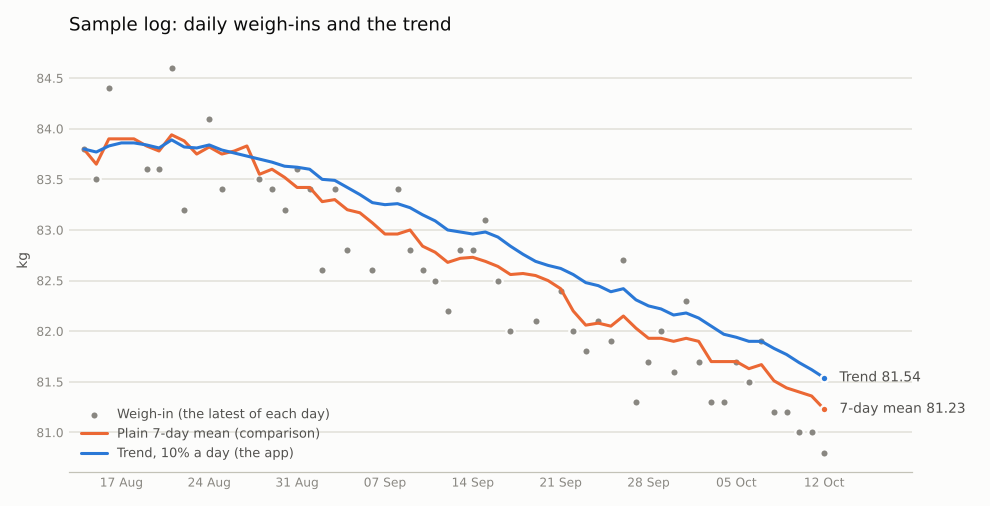
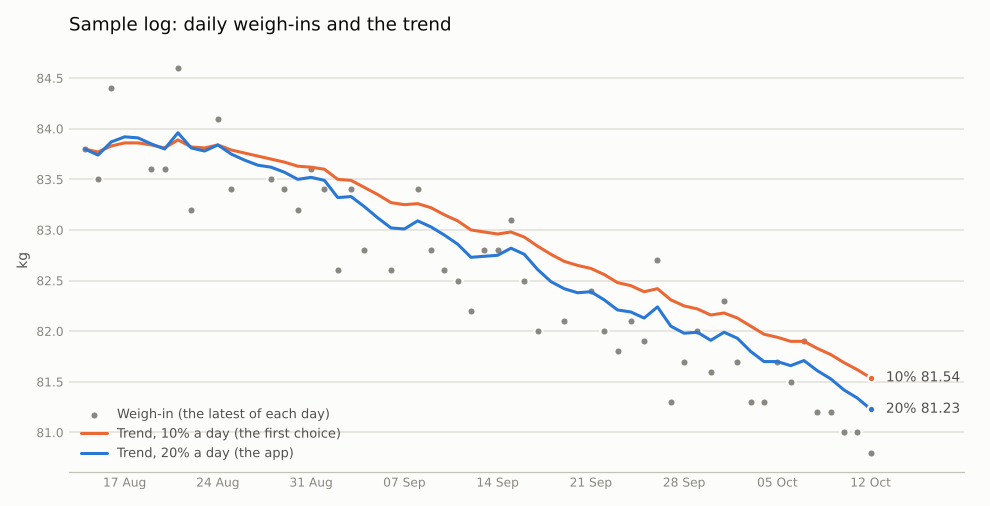
X Weigh-in W1: Gate W1 passed, the trend at 20% a day
Jon asked for a more responsive trend, "just enough to smooth out
anomalies", and confirmed the date,time,kg file layout.

The share was measured on 20 sample logs against their built-in weight:
mean distance 0.47 / 0.33 / 0.26 / 0.22 / 0.20 kg at 10-30%, while the
largest one-day move grows 0.13 / 0.17 / 0.23 / 0.29 / 0.35 kg. 20% halves
the 10% trend's lag (4 days instead of 9) and a one-day anomaly still moves
it by only a fifth of its size.

- Trend: kTrendPercent = 20; Trend(percent) takes another share for
  comparisons (clamped 1-100). Tests updated to 20%, with 10% and 100%
  kept as references: 66 pass.
- trend_csv takes an optional percent; trend_chart.py draws a comparison
  trend. The sample chart now shows 20% against 10%.
- NOTES: the method, the measurement table, Gate W1 passed.

Verified: host tests with no warnings; watch target compile check with no
warnings (Ubuntu toolchain with stubs, not installable); simulator runs.

Claude-Session: https://claude.ai/code/session_01GHUw2af96NXnjEQdZJGUor

diff --git a/x-weighin/docs/experiments/trend_chart.py b/x-weighin/docs/experiments/trend_chart.py
@@ -1,12 +1,13 @@
 #!/usr/bin/env python3
 """Chart a weigh-in log's daily weights against the trend, for the W1 gate.
 
-    trend_chart.py <trend.csv> <out.png>
+    trend_chart.py <trend.csv> <out.png> [<compare.csv> <compare label>]
 
 <trend.csv> is the output of Tests/Host's trend_csv tool (date,weight,trend,
-mean7). The chart shows the counted weigh-ins as grey dots, the app's trend
-(10% a day) as a blue line, and a plain 7-day mean as an orange line for
-comparison. The CSV is the chart's table view.
+mean7) at the app's share (20% a day). The chart shows the counted weigh-ins
+as grey dots and the app's trend as a blue line. With <compare.csv> (trend_csv
+at another share, on the same log) its trend is drawn as an orange line;
+without it, the plain 7-day mean is. The CSVs are the chart's table view.
 
 Light surface and chart chrome from the dataviz skill's reference palette;
 the two series colours are its categorical slots 1 and 2, checked with its
@@ -30,7 +31,7 @@ MUTED = "#898781"
 GRID = "#e1e0d9"
 AXIS = "#c3c2b7"
 TREND = "#2a78d6"   # categorical slot 1
-MEAN7 = "#eb6834"   # categorical slot 2
+OTHER = "#eb6834"   # categorical slot 2
 
 
 def read(path):
@@ -46,9 +47,17 @@ def read(path):
 
 
 def main():
-    if len(sys.argv) != 3:
+    if len(sys.argv) not in (3, 5):
         sys.exit(__doc__)
     days, weights, trend, mean7 = read(sys.argv[1])
+    if len(sys.argv) == 5:
+        cdays, _, other, _ = read(sys.argv[3])
+        other_label, other_short = sys.argv[4], sys.argv[4]
+        od, ov = cdays, other
+    else:
+        od = [d for d, m in zip(days, mean7) if m is not None]
+        ov = [m for m in mean7 if m is not None]
+        other_label, other_short = "Plain 7-day mean (comparison)", "7-day mean"
 
     plt.rcParams["font.family"] = "sans-serif"
     fig, ax = plt.subplots(figsize=(9, 4.6), dpi=110)
@@ -59,16 +68,14 @@ def main():
     wv = [w for w in weights if w is not None]
     ax.scatter(wd, wv, s=30, color=MUTED, edgecolors=SURFACE, linewidths=1.5,
                zorder=3, label="Weigh-in (the latest of each day)")
-    md = [d for d, m in zip(days, mean7) if m is not None]
-    mv = [m for m in mean7 if m is not None]
-    ax.plot(md, mv, color=MEAN7, linewidth=2, solid_capstyle="round",
-            solid_joinstyle="round", zorder=4, label="Plain 7-day mean (comparison)")
+    ax.plot(od, ov, color=OTHER, linewidth=2, solid_capstyle="round",
+            solid_joinstyle="round", zorder=4, label=other_label)
     ax.plot(days, trend, color=TREND, linewidth=2, solid_capstyle="round",
-            solid_joinstyle="round", zorder=5, label="Trend, 10% a day (the app)")
+            solid_joinstyle="round", zorder=5, label="Trend, 20% a day (the app)")
 
     # Direct labels at the line ends, in ink, with a short key line beside them.
-    for series, value, colour, text in ((trend, trend[-1], TREND, "Trend"),
-                                        (mean7, mv[-1], MEAN7, "7-day mean")):
+    for value, colour, text in ((trend[-1], TREND, "20%"),
+                                (ov[-1], OTHER, other_short.split(",")[-1].split(" a day")[0].strip())):
         ax.annotate(f"{text} {value:.2f}", xy=(days[-1], value),
                     xytext=(10, 0), textcoords="offset points", va="center",
                     fontsize=9, color=INK_2)

diff --git a/x-weighin/Tests/Host/TrendTest.cpp b/x-weighin/Tests/Host/TrendTest.cpp
@@ -63,19 +63,44 @@ TEST(Trend, SteadyWeightStaysPut)
     EXPECT_EQ(s.weekChange, 0);
 }
 
-TEST(Trend, MovesTenPercentADay)
+TEST(Trend, MovesTwentyPercentADay)
 {
-    // A 1 kg step: the trend closes 10% of the gap each day, so 0.10 kg after
-    // one day and 1 - 0.9^7 = 52.2% after seven.
+    // The app's share (Jon, Gate W1). A 1 kg step: the trend closes 20% of the
+    // gap each day, so 0.20 kg after one day and 1 - 0.8^7 = 79% after seven.
+    ASSERT_EQ(kTrendPercent, 20);
     Trend t;
     t.onEntry(entry(kDay0, 8200));
     for (int i = 1; i <= 7; ++i) {
         t.onEntry(entry(kDay0 + i, 8300));
     }
-    EXPECT_EQ(trendAt(t, kDay0 + 1), 8210);
-    EXPECT_EQ(trendAt(t, kDay0 + 7), 8252);
-    EXPECT_EQ(t.summary().trend, 8252);
+    EXPECT_EQ(trendAt(t, kDay0 + 1), 8220);
+    EXPECT_EQ(trendAt(t, kDay0 + 2), 8236);
+    EXPECT_EQ(trendAt(t, kDay0 + 7), 8279);
+    EXPECT_EQ(t.summary().trend, 8279);
     EXPECT_EQ(t.summary().latest, 8300);
+}
+
+TEST(Trend, OtherSharesForComparison)
+{
+    // The Hacker's Diet's 10%: 0.10 kg after one day, 1 - 0.9^7 = 52.2% after seven.
+    Trend ten(10);
+    ten.onEntry(entry(kDay0, 8200));
+    for (int i = 1; i <= 7; ++i) {
+        ten.onEntry(entry(kDay0 + i, 8300));
+    }
+    EXPECT_EQ(trendAt(ten, kDay0 + 1), 8210);
+    EXPECT_EQ(trendAt(ten, kDay0 + 7), 8252);
+
+    // 100% is no smoothing at all: the trend is each day's weight.
+    Trend raw(100);
+    raw.onEntry(entry(kDay0, 8200));
+    raw.onEntry(entry(kDay0 + 1, 8300));
+    EXPECT_EQ(raw.summary().trend, 8300);
+
+    // Out of range shares are clamped.
+    EXPECT_EQ(Trend(0).percent(), 1);
+    EXPECT_EQ(Trend(250).percent(), 100);
+    EXPECT_EQ(Trend().percent(), kTrendPercent);
 }
 
 TEST(Trend, TheLatestWeighInOfADayCounts)
@@ -83,13 +108,13 @@ TEST(Trend, TheLatestWeighInOfADayCounts)
     Trend t;
     t.onEntry(entry(kDay0, 8200));
     t.onEntry(entry(kDay0 + 1, 8300, 7 * 60));
-    EXPECT_EQ(t.summary().trend, 8210);
+    EXPECT_EQ(t.summary().trend, 8220);
     t.onEntry(entry(kDay0 + 1, 8250, 7 * 60 + 2));   // weighed again, a typo fixed
     const Summary s = t.summary();
     EXPECT_EQ(s.days, 2u);
     EXPECT_EQ(s.latest, 8250);
-    EXPECT_EQ(s.trend, 8205);
-    EXPECT_EQ(trendAt(t, kDay0 + 1), 8205);
+    EXPECT_EQ(s.trend, 8210);
+    EXPECT_EQ(trendAt(t, kDay0 + 1), 8210);
 }
 
 TEST(Trend, TheLatestCountsOnTheFirstDayToo)
@@ -103,7 +128,7 @@ TEST(Trend, TheLatestCountsOnTheFirstDayToo)
     EXPECT_EQ(s.trend, 8000);
     // And the next day steps from 80.00, not 82.00.
     t.onEntry(entry(kDay0 + 1, 8100));
-    EXPECT_EQ(t.summary().trend, 8010);
+    EXPECT_EQ(t.summary().trend, 8020);
 }
 
 TEST(Trend, ReplacingAfterAGapRedoesTheFilledDays)

diff --git a/x-weighin/Software/Libs/Core/Header/Trend.hpp b/x-weighin/Software/Libs/Core/Header/Trend.hpp
@@ -6,9 +6,11 @@
  * The method (Jon, 12 October 2026):
  *   - **One weight per local day: the latest that day.** A later weigh-in the
  *     same day replaces an earlier one, so a slip is fixed by weighing again.
- *   - **Each day the trend moves 10% of the way to that day's weight**,
- *     t += (w - t) / 10: the Hacker's Diet method (J. Walker, "The Hacker's
- *     Diet"). The first weigh-in starts the trend at that weight.
+ *   - **Each day the trend moves a fixed share of the way to that day's
+ *     weight**, t += (w - t) x p: an exponential moving average, the method of
+ *     J. Walker's "The Hacker's Diet" (which uses p = 10%). The app uses
+ *     kTrendPercent; the share can be set per Trend for comparisons. The first
+ *     weigh-in starts the trend at that weight.
  *   - **Missed days** take a straight line between the weigh-ins either side,
  *     and the trend steps through each of them. A week off then neither
  *     freezes the trend nor makes it jump, and weekly weighing still works.
@@ -37,8 +39,10 @@ namespace XWeighIn
 
 /// Trend units per 0.01 kg: the trend is held to 1/10 000 kg.
 constexpr int32_t kTrendScale  = 100;
-/// The share of the gap closed each day: 1 / kTrendDivisor, i.e. 10%.
-constexpr int32_t kTrendDivisor = 10;
+/// The share of the gap closed each day, in percent. Jon, Gate W1: more
+/// responsive than the Hacker's Diet's 10%, "just enough to smooth out
+/// anomalies" (NOTES, W1).
+constexpr int32_t kTrendPercent = 20;
 /// Days kept for the graph and the glance.
 constexpr int32_t kHistoryDays = 90;
 /// The span the weekly change is taken over.
@@ -65,7 +69,14 @@ struct Summary {
 class Trend : public EntryVisitor
 {
 public:
-    Trend() { reset(); }
+    /// @param percent  The share of the gap closed each day, 1-100 (clamped).
+    explicit Trend(int32_t percent = kTrendPercent)
+        : mPercent(percent < 1 ? 1 : (percent > 100 ? 100 : percent))
+    {
+        reset();
+    }
+
+    int32_t percent() const { return mPercent; }
 
     void reset();
 
@@ -93,6 +104,7 @@ private:
         uint32_t days;
     };
 
+    int32_t  mPercent;
     bool     mStarted;
     int32_t  mFirstDay;
     int32_t  mLastDay;

diff --git a/x-weighin/Tests/Host/tools/trend_csv.cpp b/x-weighin/Tests/Host/tools/trend_csv.cpp
@@ -1,12 +1,15 @@
 /**
  * trend_csv: read a weigh-in log and print it day by day with the trend.
  *
- *   trend_csv <weighins.csv>
+ *   trend_csv <weighins.csv> [percent]
  *
  * stdout, a CSV: date,weight,trend,mean7 for each day the trend covers (the
  * last 90 days at most). weight is that day's counted weigh-in (the latest),
  * empty on a missed day. mean7 is a plain mean of the weigh-ins in the 7 days
  * up to that day, for comparison only: the app does not use it.
+ *
+ * percent is the trend's daily share (default: the app's, kTrendPercent), to
+ * compare settings on the same log.
  *
  * stderr: the summary the app would show.
  *
@@ -20,6 +23,7 @@
 #include "WeighText.hpp"
 
 #include <cstdio>
+#include <cstdlib>
 #include <fstream>
 #include <map>
 #include <string>
@@ -29,7 +33,7 @@ using namespace XWeighIn;
 int main(int argc, char** argv)
 {
     if (argc < 2) {
-        std::fprintf(stderr, "usage: %s <weighins.csv>\n", argv[0]);
+        std::fprintf(stderr, "usage: %s <weighins.csv> [percent]\n", argv[0]);
         return 2;
     }
     std::ifstream in(argv[1]);
@@ -38,7 +42,7 @@ int main(int argc, char** argv)
         return 1;
     }
 
-    Trend                      trend;
+    Trend                      trend(argc > 2 ? std::atoi(argv[2]) : kTrendPercent);
     std::map<int32_t, int32_t> latestOfDay;   // for mean7
     uint32_t                   rejected = 0;
     std::string                line;
@@ -91,7 +95,8 @@ int main(int argc, char** argv)
     char a[16], b[16];
     formatKg(s.latest, 2, a, sizeof(a));
     formatKg(s.trend, 2, b, sizeof(b));
-    std::fprintf(stderr, "%u days weighed, latest %s kg, trend %s kg", s.days, a, b);
+    std::fprintf(stderr, "%u days weighed, latest %s kg, trend (%d%%) %s kg",
+                 s.days, a, static_cast<int>(trend.percent()), b);
     if (s.hasWeekChange) {
         formatChange(s.weekChange, 2, a, sizeof(a));
         std::fprintf(stderr, ", %s kg this week", a);

diff --git a/x-weighin/Software/Libs/Core/Sources/Trend.cpp b/x-weighin/Software/Libs/Core/Sources/Trend.cpp
@@ -68,7 +68,7 @@ void Trend::commit(int32_t day, int64_t unitsW)
         // between the two weigh-ins before it.
         const int64_t w = (k == gap) ? unitsW
                                      : mLastWeightUnits + divRound((unitsW - mLastWeightUnits) * k, gap);
-        mTrendUnits += divRound(w - mTrendUnits, kTrendDivisor);
+        mTrendUnits += divRound((w - mTrendUnits) * mPercent, 100);
         const int32_t d = mLastDay + static_cast<int32_t>(k);
         record(d, (k == gap) ? static_cast<int32_t>(unitsW / kTrendScale) : 0, mTrendUnits);
     }

diff --git a/x-weighin/docs/NOTES.md b/x-weighin/docs/NOTES.md
@@ -108,7 +108,7 @@ UNA profile. Jon was told and agreed (12 October 2026).
 | Phase | Work | Gate |
 |---|---|---|
 | **W0** | Identity, layout, CI build. The first look: the profile's height and weight, the daily resting HR, age and sex, on one screen | W0: do the profile's values reach the app on the watch? |
-| W1 | The core, pure and host-tested: a weigh-in log (an append-only file in the app's folder, with a copy in SharedData), the smoothed trend, the change per week, BMI, BMR | Host tests; Jon confirms the smoothing |
+| W1 | The core, pure and host-tested: a weigh-in log (an append-only file in the app's folder, with a copy in SharedData), the smoothed trend (20% a day), the change per week, BMI, BMR | Passed: 20% a day, the file layout |
 | W2 | The screens: weigh-in entry (starts at the last weight, 0.1 kg steps), the saved summary, trend graph, history | A week of weigh-ins on the watch |
 | W3 | The glance, a second `.uapp`: weight, weekly change, 14 days as bars | The glance on the watch |
 | W4 | The sweat-rate test: weigh before and after a session, enter what you drank; L/h and % of body mass lost | A training session |
@@ -291,7 +291,8 @@ existing values (`Docs/app-config-fields.md` §7.3).
 ## W1: the log, the trend and the body numbers (12 October 2026)
 
 Jon's decisions for W1:
-- the trend moves 10% a day ("I agree");
+- the trend: first 10% a day ("I agree"), then, at Gate W1, **20% a day**
+  (see "Gate W1" below);
 - **if he weighs in more than once a day, the latest counts**. Every weigh-in
   stays in the log.
 
@@ -339,9 +340,11 @@ date,time,kg
   day undoes that day and redoes it. So a mistyped entry is fixed by weighing
   again: the sample log below has a 92.80 corrected to 82.80 a minute later,
   and the trend never sees the 92.80.
-- **Each day the trend moves 10% of the way to that day's weight,**
-  `t += (w - t) / 10` (J. Walker, *The Hacker's Diet*). The first weigh-in
-  starts it.
+- **Each day the trend moves 20% of the way to that day's weight,**
+  `t += (w - t) × 20%`: an exponential moving average, the method of J. Walker's
+  *The Hacker's Diet*, which uses 10%. The first weigh-in starts it.
+  - The share is `kTrendPercent` in `Trend.hpp`. `Trend(percent)` and
+    `trend_csv <log> <percent>` take another, to compare.
   - It is held in fixed point at 1/10 000 kg, so the watch and the host agree
     exactly.
 - **Missed days take a straight line** between the weigh-ins either side, and
@@ -359,21 +362,21 @@ date,time,kg
 **What the smoothing does, on a sample log**
 (`docs/screens/w1-trend-sample.png`):
 
-![Sample log: weigh-ins, the 10% trend and a 7-day mean](screens/w1-trend-sample.png)
+![Sample log: weigh-ins, the 20% trend and the 10% one](screens/w1-trend-sample.png)
 
 - **The sample** (`make_log`, seed 1) is not real data: 60 days, a built-in loss
   of 0.35 kg a week from 84 kg, day-to-day swings, about one missed day in eight,
   and the one typo.
-- **Its table view** is `docs/experiments/w1-trend-sample.csv`.
-- **The trend is the smoothest line:** it ignores the single-day jumps (84.4,
-  84.6, 82.2) that move the 7-day mean.
-- **The price is lag.** On a steady change, a 10% trend runs about 9 days behind
-  ((1 − 0.1) / 0.1).
-  - Here the built-in weight on the last day is 81.05 kg; the trend says 81.54,
-    the 7-day mean 81.23, and that day's reading was 80.80.
-  - So the trend is "where you are heading", not today's weight.
-  - The weekly change still reads the rate well: -0.40 kg against the built-in
-    -0.35.
+- **Its table views** are `docs/experiments/w1-trend-sample.csv` (20%) and
+  `w1-trend-sample-10.csv` (10%).
+- **Both trends ride over the single-day jumps** (84.4, 84.6, 82.2).
+- **The price of smoothing is lag.** On a steady change the trend runs about
+  (1 − p) / p days behind: 9 days at 10%, 4 days at 20%.
+  - Here the built-in weight on the last day is 81.05 kg. The 20% trend says
+    81.23 and the 10% one 81.54; that day's reading was 80.80.
+  - The trend is "where you are heading", not today's weight.
+  - The weekly change reads the rate: -0.47 kg at 20% and -0.40 at 10%,
+    against the built-in -0.35.
 
 ### The body numbers (`BodyMetrics`)
 
@@ -402,9 +405,9 @@ Both use integers only, and both take the trend weight, which W2 will show.
 
 ### W1 verified (12 October 2026)
 
-- **Host tests: 65 pass** in 12 suites, with no warnings under
-  `-Wall -Wextra -Wpedantic`.
-  - The new suites: Calendar 4, WeighLog 8, LogStore 17, Trend 15, BMI 2, BMR 2,
+- **Host tests: 66 pass** in 12 suites, with no warnings under
+  `-Wall -Wextra -Wpedantic` (after the Gate W1 change to 20%).
+  - The new suites: Calendar 4, WeighLog 8, LogStore 17, Trend 16, BMI 2, BMR 2,
     FormatChange 4.
   - LogStore runs against Streak's in-memory tree (`support/TreeFileSystem`,
     copied), with FatFs's rename rule. It covers:
@@ -421,15 +424,31 @@ Both use integers only, and both take the trend weight, which W2 will show.
 - **Simulator:** builds and runs; the first look is unchanged.
 - **Sample:** 52 weigh-ins over 60 days, read back with 0 lines rejected.
 
-## Gate W1: what Jon decides
+## Gate W1: what Jon decided (12 October 2026)
 
-1. **The chart.** Does the 10% trend read right to you, knowing it runs about 9
-   days behind a steady change? Faster would mean 15% or 20% a day: more
-   responsive, but more wobble.
-2. **The file.** Is `date,time,kg` with local date and time what you want to
-   see over USB?
+1. **The trend: more responsive**, "just enough to smooth out anomalies".
+   - The share was chosen by measurement, not by eye: 20 sample logs (`make_log`
+     seeds 1-20, 60 days each), each trend compared day by day with the
+     sample's built-in weight, ignoring the first 10 days.
 
-Then W2: the weigh-in screen, the summary, the trend graph and history.
+     | Share | Mean distance from the built-in weight | Largest one-day move | Wobble (s.d. of daily change) |
+     |---|---|---|---|
+     | 10% | 0.47 kg | 0.13 kg | 0.04 kg |
+     | 15% | 0.33 kg | 0.17 kg | 0.06 kg |
+     | **20%** | **0.26 kg** | **0.23 kg** | **0.08 kg** |
+     | 25% | 0.22 kg | 0.29 kg | 0.10 kg |
+     | 30% | 0.20 kg | 0.35 kg | 0.13 kg |
+
+   - **20%** roughly halves the 10% trend's lag, and a one-day anomaly still
+     moves the trend by only a fifth of its size. Past 20% the accuracy gain is
+     small and the wobble keeps growing.
+   - `kTrendPercent = 20`. The tests are updated, and a new one keeps 10% and
+     100% (no smoothing) as references.
+2. **The file layout** `date,time,kg`, in local time, is fine for the data
+   needed.
+
+**Gate W1: passed.** Next, W2: the weigh-in screen, the summary, the trend
+graph and history.
 
 ## Open, for later phases
 
